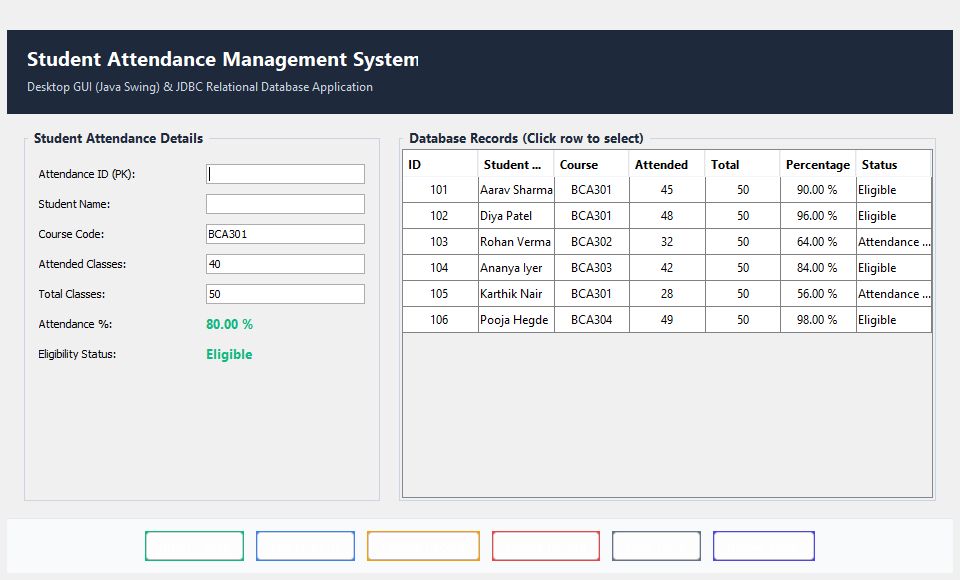
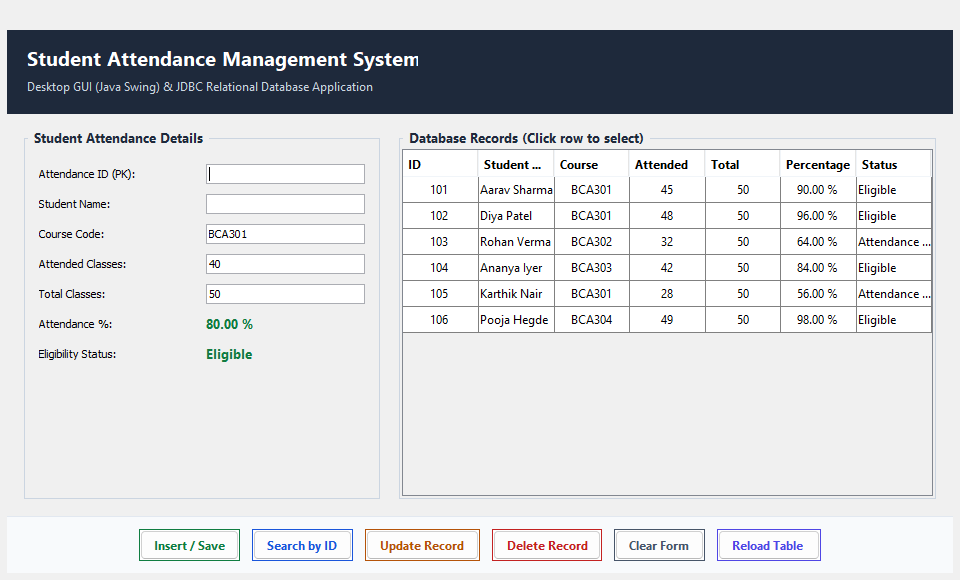
Fix button text visibility on Windows and configure .vscode/settings.json for automatic JDBC library linking

diff --git a/StudentAttendanceApp.java b/StudentAttendanceApp.java
@@ -17,9 +17,7 @@ import java.sql.*;
  * Instructions for Students:
  * 1. Ensure PostgreSQL is running on your computer.
  * 2. Update the DB credentials below (URL, USER, PASS) if needed.
- * 3. Run using 'compile_and_run.bat' or compile via command line:
- *      javac -cp ".;lib/*" StudentAttendanceApp.java
- *      java  -cp ".;lib/*" StudentAttendanceApp
+ * 3. Run using 'compile_and_run.bat' or in VS Code with lib/postgresql.jar referenced.
  */
 public class StudentAttendanceApp extends JFrame {
 
@@ -29,6 +27,25 @@ public class StudentAttendanceApp extends JFrame {
     private static final String URL  = "jdbc:postgresql://localhost:5432/postgres";
     private static final String USER = "postgres";
     private static final String PASS = "Admin123";
+
+    /**
+     * Establishes a database connection with explicit driver loading.
+     * Throws an informative error if the driver JAR is missing from the classpath.
+     */
+    private static Connection getConnection() throws SQLException {
+        try {
+            Class.forName("org.postgresql.Driver");
+        } catch (ClassNotFoundException e) {
+            throw new SQLException(
+                "PostgreSQL JDBC Driver (postgresql.jar) not found in Classpath!\n\n" +
+                "How to solve this:\n" +
+                "1. If running in VS Code: Check that '.vscode/settings.json' includes 'lib/**/*.jar',\n" +
+                "   OR right-click 'lib/postgresql.jar' -> 'Add to Referenced Libraries'.\n" +
+                "2. OR simply double-click 'compile_and_run.bat' from File Explorer."
+            );
+        }
+        return DriverManager.getConnection(URL, USER, PASS);
+    }
 
     // ==========================================================================
     // 2. GUI COMPONENTS
@@ -118,11 +135,11 @@ public class StudentAttendanceApp extends JFrame {
 
         lblCalcPercentage = new JLabel("80.00 %");
         lblCalcPercentage.setFont(new Font("Segoe UI", Font.BOLD, 13));
-        lblCalcPercentage.setForeground(new Color(16, 185, 129));
+        lblCalcPercentage.setForeground(new Color(16, 125, 65));
 
         lblStatusBadge = new JLabel("Eligible");
         lblStatusBadge.setFont(new Font("Segoe UI", Font.BOLD, 13));
-        lblStatusBadge.setForeground(new Color(16, 185, 129));
+        lblStatusBadge.setForeground(new Color(16, 125, 65));
 
         // Real-time calculation on key typed
         KeyAdapter calcAdapter = new KeyAdapter() {
@@ -208,12 +225,13 @@ public class StudentAttendanceApp extends JFrame {
         btnPanel.setBackground(new Color(248, 250, 252));
         btnPanel.setBorder(BorderFactory.createMatteBorder(1, 0, 0, 0, new Color(226, 232, 240)));
 
-        JButton btnInsert  = createButton("Insert / Save",  new Color(16, 185, 129));
-        JButton btnSearch  = createButton("Search by ID",  new Color(59, 130, 246));
-        JButton btnUpdate  = createButton("Update Record", new Color(245, 158, 11));
-        JButton btnDelete  = createButton("Delete Record", new Color(239, 68, 68));
-        JButton btnClear   = createButton("Clear Form",    new Color(100, 116, 139));
-        JButton btnRefresh = createButton("Reload Table",  new Color(79, 70, 229));
+        // Outlined buttons with high-contrast, perfectly visible text
+        JButton btnInsert  = createButton("Insert / Save",  new Color(16, 125, 65));  // Dark Green
+        JButton btnSearch  = createButton("Search by ID",  new Color(26, 86, 219));  // Dark Blue
+        JButton btnUpdate  = createButton("Update Record", new Color(180, 83, 9));   // Dark Amber
+        JButton btnDelete  = createButton("Delete Record", new Color(195, 34, 34));  // Dark Red
+        JButton btnClear   = createButton("Clear Form",    new Color(71, 85, 105));  // Slate
+        JButton btnRefresh = createButton("Reload Table",  new Color(79, 70, 229));  // Indigo
 
         btnInsert.addActionListener(e -> insertRecord());
         btnSearch.addActionListener(e -> searchRecord());
@@ -232,14 +250,17 @@ public class StudentAttendanceApp extends JFrame {
         return btnPanel;
     }
 
-    private JButton createButton(String text, Color bg) {
+    private JButton createButton(String text, Color accentColor) {
         JButton btn = new JButton(text);
         btn.setFont(new Font("Segoe UI", Font.BOLD, 12));
-        btn.setBackground(bg);
-        btn.setForeground(Color.WHITE);
+        btn.setForeground(accentColor); // Crisp, high-contrast colored text
+        btn.setBackground(Color.WHITE);
         btn.setFocusPainted(false);
         btn.setCursor(new Cursor(Cursor.HAND_CURSOR));
-        btn.setBorder(BorderFactory.createEmptyBorder(7, 14, 7, 14));
+        btn.setBorder(BorderFactory.createCompoundBorder(
+                BorderFactory.createLineBorder(accentColor, 1),
+                BorderFactory.createEmptyBorder(7, 14, 7, 14)
+        ));
         return btn;
     }
 
@@ -255,7 +276,7 @@ public class StudentAttendanceApp extends JFrame {
                      "attended_classes INT NOT NULL, " +
                      "total_classes INT NOT NULL DEFAULT 50, " +
                      "status VARCHAR(30) NOT NULL)";
-        try (Connection conn = DriverManager.getConnection(URL, USER, PASS);
+        try (Connection conn = getConnection();
              Statement stmt = conn.createStatement()) {
             stmt.execute(sql);
         } catch (SQLException e) {
@@ -269,7 +290,7 @@ public class StudentAttendanceApp extends JFrame {
                      "(attendance_id, student_name, course_code, attended_classes, total_classes, status) " +
                      "VALUES (?, ?, ?, ?, ?, ?)";
 
-        try (Connection conn = DriverManager.getConnection(URL, USER, PASS);
+        try (Connection conn = getConnection();
              PreparedStatement pstmt = conn.prepareStatement(sql)) {
 
             if (txtId.getText().trim().isEmpty() || txtName.getText().trim().isEmpty()) {
@@ -312,7 +333,7 @@ public class StudentAttendanceApp extends JFrame {
     // SEARCH (READ)
     private void searchRecord() {
         String sql = "SELECT * FROM student_attendance WHERE attendance_id = ?";
-        try (Connection conn = DriverManager.getConnection(URL, USER, PASS);
+        try (Connection conn = getConnection();
              PreparedStatement pstmt = conn.prepareStatement(sql)) {
 
             String idStr = txtId.getText().trim();
@@ -358,7 +379,7 @@ public class StudentAttendanceApp extends JFrame {
                      "student_name = ?, course_code = ?, attended_classes = ?, total_classes = ?, status = ? " +
                      "WHERE attendance_id = ?";
 
-        try (Connection conn = DriverManager.getConnection(URL, USER, PASS);
+        try (Connection conn = getConnection();
              PreparedStatement pstmt = conn.prepareStatement(sql)) {
 
             int id = Integer.parseInt(txtId.getText().trim());
@@ -396,7 +417,7 @@ public class StudentAttendanceApp extends JFrame {
     // DELETE
     private void deleteRecord() {
         String sql = "DELETE FROM student_attendance WHERE attendance_id = ?";
-        try (Connection conn = DriverManager.getConnection(URL, USER, PASS);
+        try (Connection conn = getConnection();
              PreparedStatement pstmt = conn.prepareStatement(sql)) {
 
             String idStr = txtId.getText().trim();
@@ -431,7 +452,7 @@ public class StudentAttendanceApp extends JFrame {
         String sql = "SELECT attendance_id, student_name, course_code, attended_classes, total_classes, status " +
                      "FROM student_attendance ORDER BY attendance_id ASC";
 
-        try (Connection conn = DriverManager.getConnection(URL, USER, PASS);
+        try (Connection conn = getConnection();
              PreparedStatement pstmt = conn.prepareStatement(sql);
              ResultSet rs = pstmt.executeQuery()) {
 
@@ -467,12 +488,12 @@ public class StudentAttendanceApp extends JFrame {
                 lblCalcPercentage.setText(String.format("%.2f %%", pct));
                 if (pct >= 75.0) {
                     lblStatusBadge.setText("Eligible");
-                    lblStatusBadge.setForeground(new Color(16, 185, 129)); // Green
-                    lblCalcPercentage.setForeground(new Color(16, 185, 129));
+                    lblStatusBadge.setForeground(new Color(16, 125, 65)); // Green
+                    lblCalcPercentage.setForeground(new Color(16, 125, 65));
                 } else {
                     lblStatusBadge.setText("Attendance Shortage");
-                    lblStatusBadge.setForeground(new Color(220, 38, 38)); // Red
-                    lblCalcPercentage.setForeground(new Color(220, 38, 38));
+                    lblStatusBadge.setForeground(new Color(195, 34, 34)); // Red
+                    lblCalcPercentage.setForeground(new Color(195, 34, 34));
                 }
             }
         } catch (NumberFormatException ignored) {}
